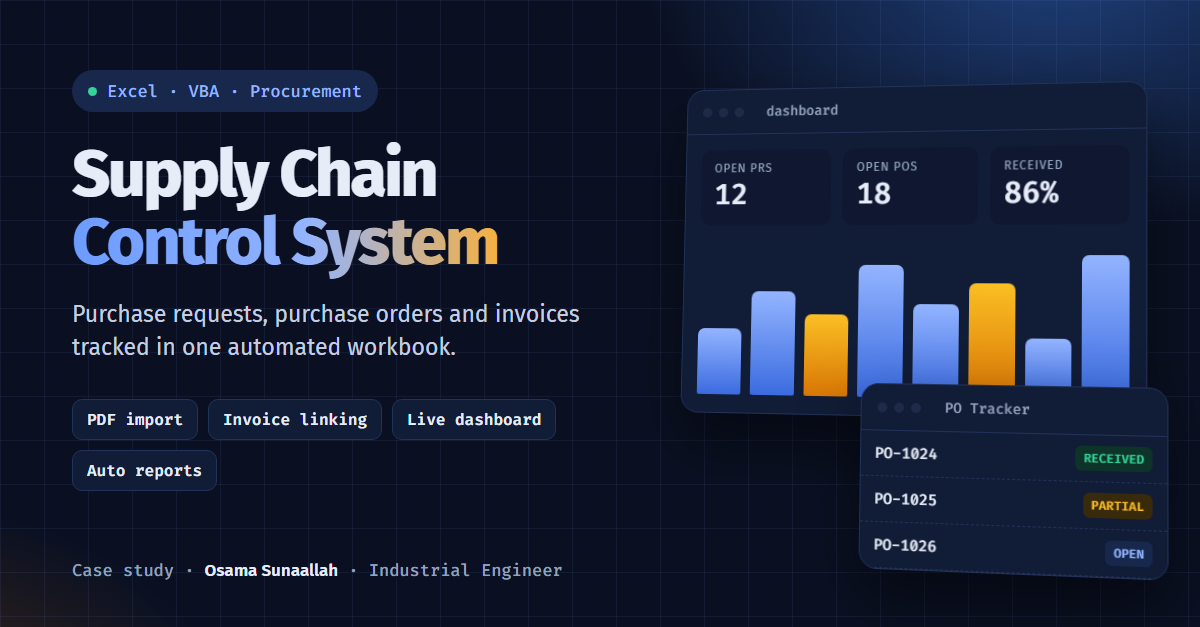
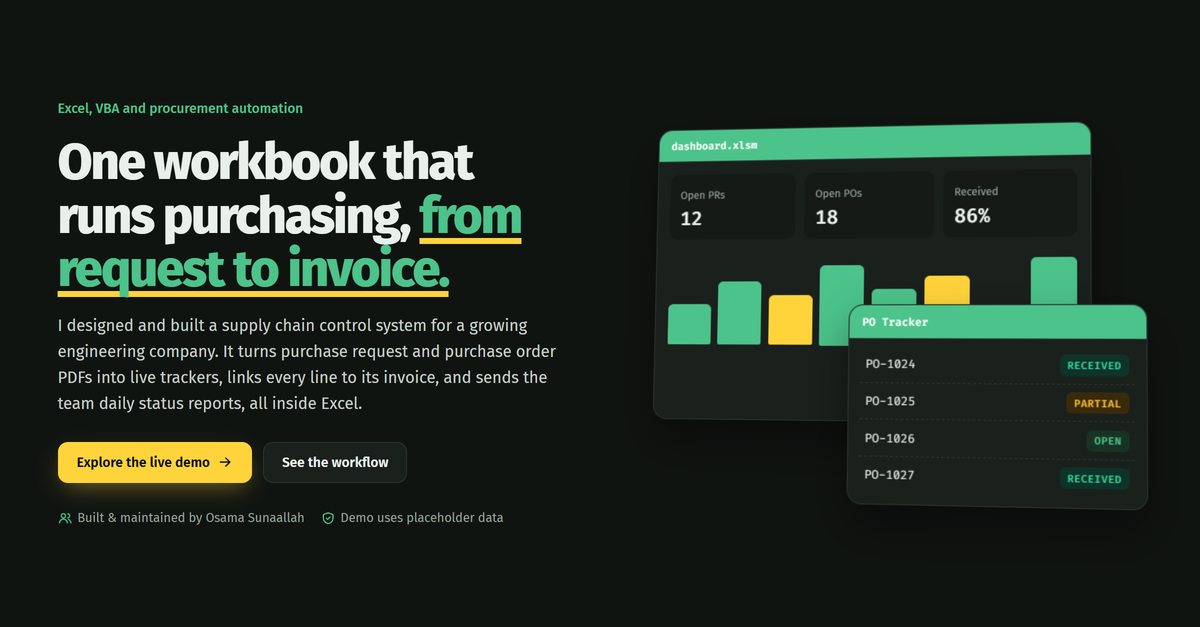
New share image from the current design

diff --git a/index.html b/index.html
@@ -8,7 +8,7 @@
 <meta property="og:type" content="website">
 <meta property="og:title" content="Supply Chain Control System | Osama Sunaallah">
 <meta property="og:description" content="Excel + VBA procurement control system: PR and PO tracking, invoice linking and automated reports. Portfolio case study.">
-<meta property="og:image" content="https://osamasunaallah.github.io/Supply-Chain/thumbnail.png">
+<meta property="og:image" content="https://osamasunaallah.github.io/Supply-Chain/thumbnail.png?v=2">
 <meta property="og:image:width" content="1200"><meta property="og:image:height" content="627">
 <meta property="og:url" content="https://osamasunaallah.github.io/Supply-Chain/">
 <meta name="twitter:card" content="summary_large_image">
